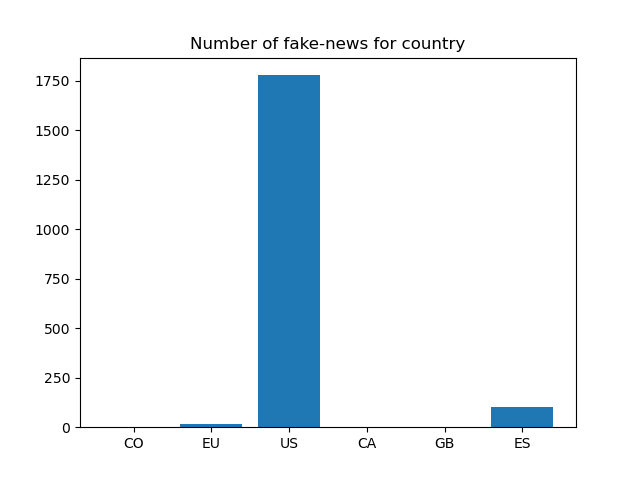
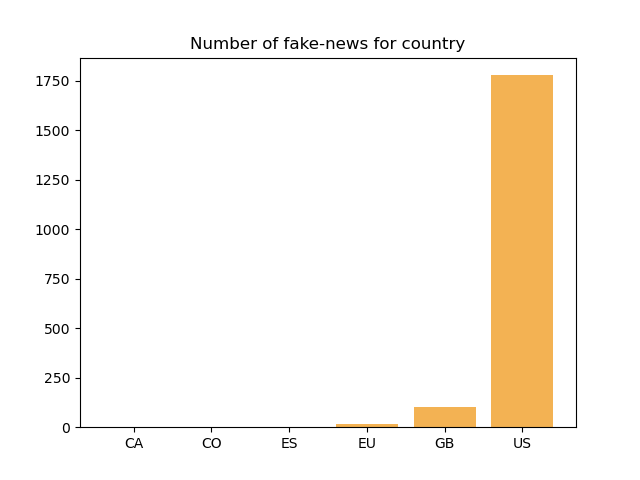
plt

diff --git a/templates/Risultati_ricerca.html b/templates/Risultati_ricerca.html
@@ -16,8 +16,10 @@
                 var obj = JSON.parse(news);
 
                 if ({{len}}%3 == 0) len = (x*3) + 3;
-                else len = (x*3) + {{len}}%3;
-
+                else{
+                    len = (x*3) + 3
+                    if (x == {{len}}/3) len = {{len}}%3;
+                }
                 for (i=x*3;i<len;i++){
                  string1 = "<div class='col s12 m7' ><div class='card horizontal'  style='height:170px;' id='a'><div class='card-image' style='width:40%;height:100%;'>"
                  string2 = "<img src='"+obj.News[i].main_img_url+"'  style='width: 100%;height:100%;'></div><div class='card-stacked'>"

diff --git a/Query.py b/Query.py
@@ -1,4 +1,5 @@
 import  Dataset_connection
+import matplotlib.pylab as plt
 
 def query_six_recent():
     col = Dataset_connection.con()
@@ -36,7 +37,20 @@ def query_all_country():
 def query_all_country_count():
     col = Dataset_connection.con()
     query = col.aggregate([{"$group": {"_id": "$country","count": {"$sum": 1}}}])
-    return query
+
+    array_num_c = []
+    label_c = []
+    for x in query:
+        array_num_c.append(x['count'])
+        label_c.append(x['_id'])
+    array_num_c.sort()
+    label_c.sort()
+    plt.bar(label_c, array_num_c, color='#F3B253')
+    plt.xticks(label_c, label_c)
+    plt.title('Number of fake-news for country')
+    plt.savefig('static/immagini/country_graph.png')
+
+    plt.close()
 
 def query_for_leng(testo):
     col = Dataset_connection.con()
@@ -49,10 +63,23 @@ def query_all_leng():
     query = col.aggregate([{"$group": {"_id": "$language"}}])
     return query
 
-def query_all_country_len():
+def query_all_len_count():
     col = Dataset_connection.con()
-    query = col.aggregate([{"$group": {"_id": "$len","count": {"$sum": 1}}}])
-    return query
+    query = col.aggregate([{"$group": {"_id": "$language","count": {"$sum": 1}}}])
+
+    array_num_l = []
+    label_l = []
+    for x in query:
+        array_num_l.append(int(x['count']))
+        label_l.append(x['_id'])
+    array_num_l.sort()
+    label_l.sort()
+    plt.bar(label_l, array_num_l, color='#F3B253')
+    plt.xticks(label_l, label_l)
+    plt.title('Number of fake-news for language')
+    plt.savefig('static/immagini/len_graph.png')
+
+    plt.close()
 
 def query_for_site(testo):
     col = Dataset_connection.con()

diff --git a/Sito_web.py b/Sito_web.py
@@ -142,32 +142,9 @@ def ricerca_risultato():
 
 @app.route('/Statistica', methods=['GET', 'POST'])
 def stat():
-    '''
-    array_num_c = []
-    label_c = []
-    num_country = Query.query_all_country_count()
-    for x in num_country:
-        array_num_c.append(x['count'])
-        label_c.append(x['_id'])
-    y_pos = np.arange(len(label_c))
-    plt.bar(y_pos,array_num_c)
-    plt.xticks(y_pos, label_c)
-    plt.title('Number of fake-news for country')
-    plt.savefig('static/immagini/country_graph.png')
-
-    array_num_l = []
-    label_l = []
-    num_len = Query.query_all_country_len()
-    for x in num_len:
-        array_num_l.append(x['count'])
-        label_l.append(x['_id'])
-    y_pos = np.arange(len(label_l))
-    plt.bar(y_pos,array_num_l)
-    plt.xticks(y_pos, label_l)
-    plt.title('Number of fake-news for language')
-    plt.savefig('static/immagini/len_graph.png')
-    '''
-    return render_template('Statistiche.html')
+   Query.query_all_country_count()
+   Query.query_all_len_count()
+   return render_template('Statistiche.html')
 
 
 @app.route('/Team', methods=['GET', 'POST'])
